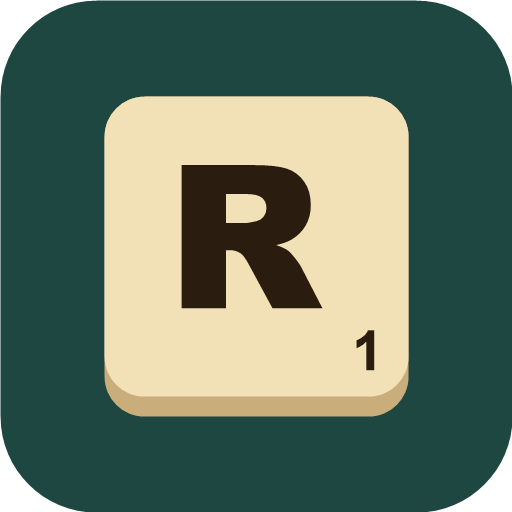
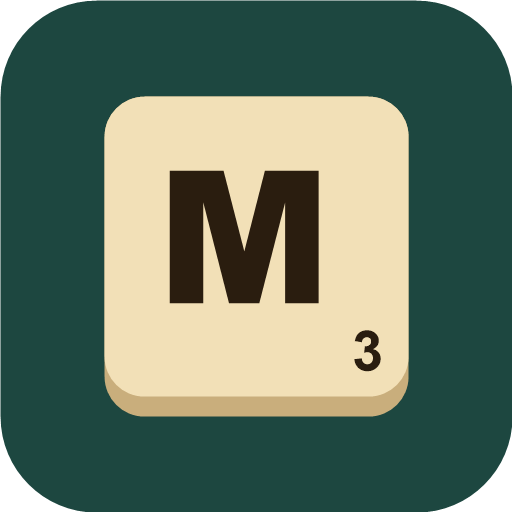
Rename the app from Tile Rewind to Mabble
Update the title, header tiles, install name, docs and comments, and
redraw the icon as an M tile. Internal storage keys keep their old
names so saved boards, games, keys and word lists carry over.

Changed region(s): [[0.3125, 0.3125, 0.625, 0.625], [0.6875, 0.625, 0.75, 0.7188]]

diff --git a/index.html b/index.html
@@ -3,7 +3,7 @@
 <head>
 <meta charset="utf-8">
 <meta name="viewport" content="width=device-width,initial-scale=1,viewport-fit=cover">
-<title>Tile Rewind</title>
+<title>Mabble</title>
 <meta name="description" content="Photograph a finished Scrabble board and rebuild the game move by move, with scores.">
 <meta name="theme-color" content="#1d4740">
 <link rel="icon" href="icons/icon.svg" type="image/svg+xml">
@@ -20,8 +20,8 @@
   <header class="top">
     <div>
       <div class="brand">
-        <div class="mark" aria-hidden="true"><span>R</span><span>E</span><span>W</span></div>
-        <h1>Tile Rewind</h1>
+        <div class="mark" aria-hidden="true"><span>M</span><span>A</span><span>B</span></div>
+        <h1>Mabble</h1>
       </div>
       <p class="tagline">Photograph a finished Scrabble board and get the game back, move by move.</p>
     </div>
@@ -251,7 +251,7 @@
 <dialog id="keyDialog" aria-labelledby="keyTitle">
   <form method="dialog" id="keyForm" class="dialog-body">
     <h2 id="keyTitle">Claude API key</h2>
-    <p class="hint">Tile Rewind sends your board photo straight from this browser to the Claude API using your key. The key is stored only in this browser, and you pay for what you use (one photo is usually a few cents).</p>
+    <p class="hint">Mabble sends your board photo straight from this browser to the Claude API using your key. The key is stored only in this browser, and you pay for what you use (one photo is usually a few cents).</p>
     <p class="hint">Create a key at <a href="https://console.anthropic.com/settings/keys" target="_blank" rel="noopener">console.anthropic.com</a>. A key with a spending limit is a good idea.</p>
     <label class="field" for="keyInput">API key
       <input id="keyInput" type="password" autocomplete="off" spellcheck="false" placeholder="sk-ant-...">

diff --git a/quackle-test.html b/quackle-test.html
@@ -23,12 +23,12 @@
   <header class="top">
     <div>
       <div class="brand">
-        <div class="mark" aria-hidden="true"><span>R</span><span>E</span><span>W</span></div>
+        <div class="mark" aria-hidden="true"><span>M</span><span>A</span><span>B</span></div>
         <h1>Quackle test bench</h1>
       </div>
       <p class="tagline">Proof of concept: the Quackle engine, compiled to WebAssembly, analysing one position in this browser.</p>
     </div>
-    <a class="btn" href="./">Back to Tile Rewind</a>
+    <a class="btn" href="./">Back to Mabble</a>
   </header>
 
   <div class="card">

diff --git a/sw.js b/sw.js
@@ -1,6 +1,6 @@
 // Offline support: serve the app shell and word list from cache, refresh them in the background.
 // Bump VERSION when you change any file listed in SHELL.
-const VERSION = 'tile-rewind-v8';
+const VERSION = 'mabble-v9';
 const SHELL = [
   './',
   'index.html',

diff --git a/quackle/bridge.cpp b/quackle/bridge.cpp
@@ -1,7 +1,7 @@
 /*
- *  Tile Rewind's bridge to the Quackle engine, compiled to WebAssembly.
+ *  Mabble's bridge to the Quackle engine, compiled to WebAssembly.
  *
- *  This file is part of Tile Rewind and, like Quackle, is free software:
+ *  This file is part of Mabble and, like Quackle, is free software:
  *  you can redistribute it and/or modify it under the terms of the GNU
  *  General Public License as published by the Free Software Foundation,
  *  either version 3 of the License, or (at your option) any later version.

diff --git a/README.md b/README.md
@@ -1,4 +1,4 @@
-# Tile Rewind
+# Mabble
 
 Photograph a finished Scrabble board and get the game back, move by move.
 
@@ -56,7 +56,7 @@ All paths are relative, so the site works from a project subfolder like that.
 
 ### Installing it as an app
 
-Tile Rewind is a progressive web app: on a phone, open the site and choose **Add to Home Screen** (iOS Safari) or **Install app** (Android Chrome). The app shell and word list are cached, so the editor, the solver and the on-device photo reader all work offline. Only the Claude API mode needs a connection. The service worker only runs over HTTPS, so it is skipped on `localhost`.
+Mabble is a progressive web app: on a phone, open the site and choose **Add to Home Screen** (iOS Safari) or **Install app** (Android Chrome). The app shell and word list are cached, so the editor, the solver and the on-device photo reader all work offline. Only the Claude API mode needs a connection. The service worker only runs over HTTPS, so it is skipped on `localhost`.
 
 When you change any file listed in [`sw.js`](sw.js), bump `VERSION` there so installed copies pick up the update.
 
@@ -118,7 +118,7 @@ The **Practice** tab is an untimed game against yourself. It deals two racks fro
 
 ## Licence
 
-Tile Rewind is free software under the [GNU General Public License, version 3](LICENSE) or later, because it includes the Quackle engine (© Jason Katz-Brown, John O'Laughlin, John Fultz and contributors, GPLv3). The ENABLE word list is in the public domain.
+Mabble is free software under the [GNU General Public License, version 3](LICENSE) or later, because it includes the Quackle engine (© Jason Katz-Brown, John O'Laughlin, John Fultz and contributors, GPLv3). The ENABLE word list is in the public domain.
 
 ## Notes
 

diff --git a/quackle/README.md b/quackle/README.md
@@ -1,6 +1,6 @@
-# Quackle engine for Tile Rewind
+# Quackle engine for Mabble
 
-This folder builds [Quackle](https://github.com/quackle/quackle), an open-source crossword-game AI, into WebAssembly so Tile Rewind can analyse moves in the browser.
+This folder builds [Quackle](https://github.com/quackle/quackle), an open-source crossword-game AI, into WebAssembly so Mabble can analyse moves in the browser.
 
 - `bridge.cpp` replays a reconstructed game into a Quackle position and returns Quackle's best plays for a rack, as JSON.
 - `build.sh` builds Quackle's dictionary tools, turns the ENABLE word list (`data/words.txt`) into Quackle's DAWG and GADDAG files, and compiles the engine plus the bridge with Emscripten.
@@ -10,4 +10,4 @@ The engine uses Quackle's English strategy files (`default_english`) for leave v
 
 ## Licence
 
-Quackle is free software under the GNU General Public License, version 3 or later, © Jason Katz-Brown, John O'Laughlin, John Fultz and contributors. Tile Rewind is released under the same licence. The source for everything in the build is in this repository and in Quackle's repository at the commit named in the workflow.
+Quackle is free software under the GNU General Public License, version 3 or later, © Jason Katz-Brown, John O'Laughlin, John Fultz and contributors. Mabble is released under the same licence. The source for everything in the build is in this repository and in Quackle's repository at the commit named in the workflow.
